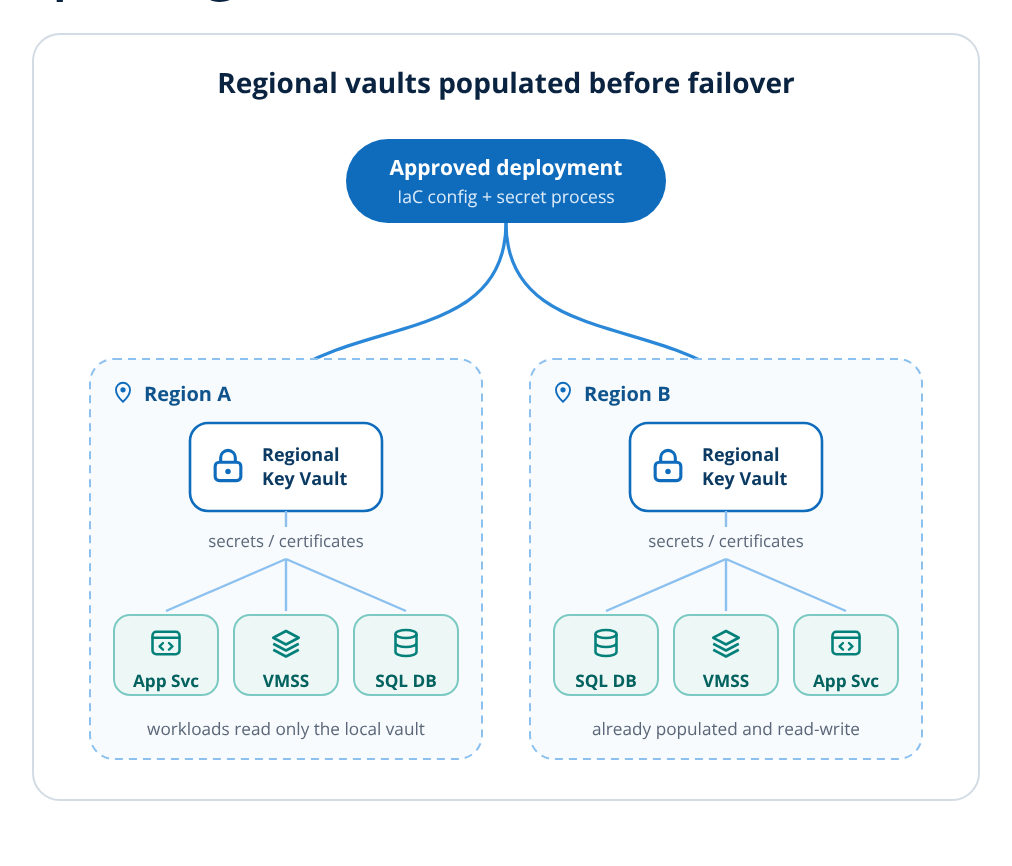
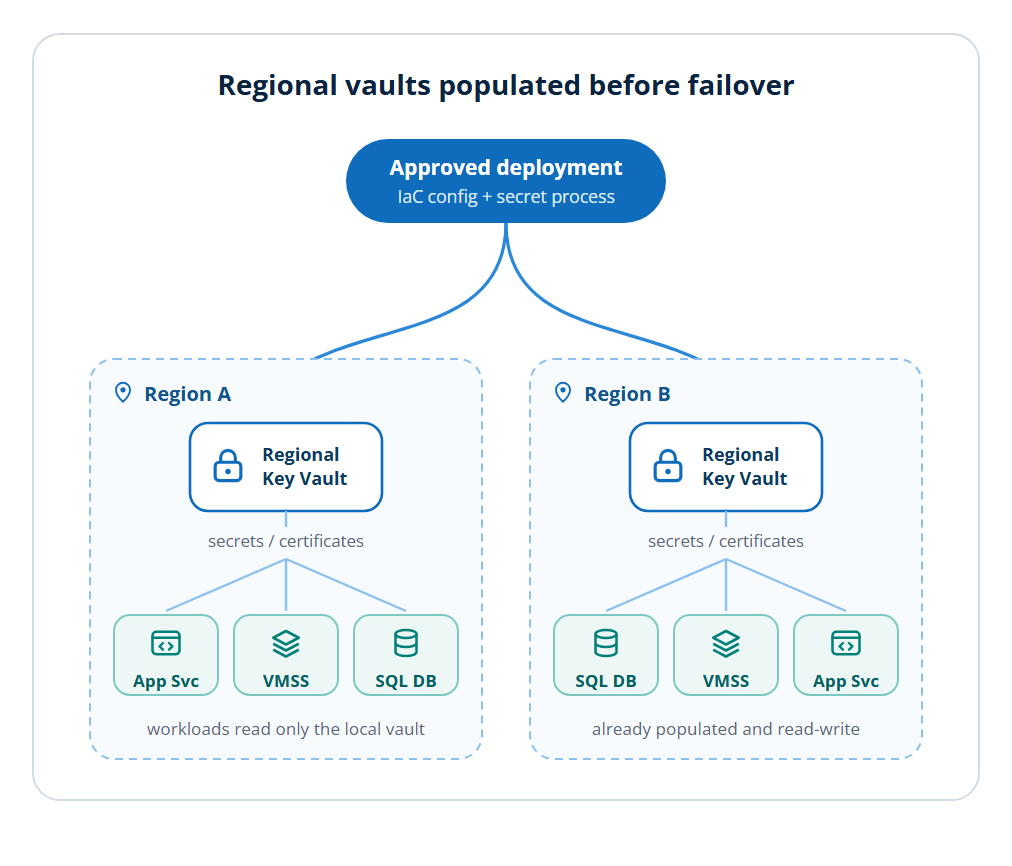
Clean extracted figure captures

diff --git a/site/tools/extract_figures.py b/site/tools/extract_figures.py
@@ -104,9 +104,24 @@ def main():
                 f'<!-- extracted from whitepaper #{fid}; regenerate with site/tools/extract_figures.py -->\n'
                 f'<div class="wpf" data-w="{w}" data-h="{h}" style="width:{w}px">{html}</div>\n')
             box = el.bounding_box(); pad = 16
-            # hide neighbouring blocks so nothing next to the figure leaks into the padding of the PNG
-            el.evaluate("f => { window.__hid = []; for (const s of f.parentElement.children) if (s !== f) { window.__hid.push([s, s.style.visibility]); s.style.visibility = 'hidden'; } }")
-            pg.screenshot(path=os.path.join(MEDIA, name + ".png"), clip={"x": box["x"] - pad, "y": box["y"] - pad, "width": box["width"] + 2 * pad, "height": box["height"] + 2 * pad})
+            el.evaluate("""f => {
+                window.__hid = [];
+                for (let n = f; n.parentElement && n !== document.body; n = n.parentElement)
+                    for (const s of n.parentElement.children)
+                        if (s !== n && !['STYLE', 'SCRIPT'].includes(s.tagName) && !(s.parentElement === document.body && s.tagName.toLowerCase() === 'svg')) {
+                            window.__hid.push([s, s.style.visibility]); s.style.visibility = 'hidden';
+                        }
+            }""")
+            png = pg.screenshot(clip={"x": box["x"] - pad, "y": box["y"] - pad, "width": box["width"] + 2 * pad, "height": box["height"] + 2 * pad})
+            image_path = os.path.join(MEDIA, name + ".png")
+            if os.path.isfile(image_path):
+                with open(image_path, "rb") as image:
+                    unchanged = image.read() == png
+            else:
+                unchanged = False
+            if not unchanged:
+                with open(image_path, "wb") as image:
+                    image.write(png)
             el.evaluate("() => { for (const [s, v] of window.__hid) s.style.visibility = v; }")
             manifest[name] = {"w": w, "h": h, "source": fid}
             print(f"{name:42s} {w}x{h}")
